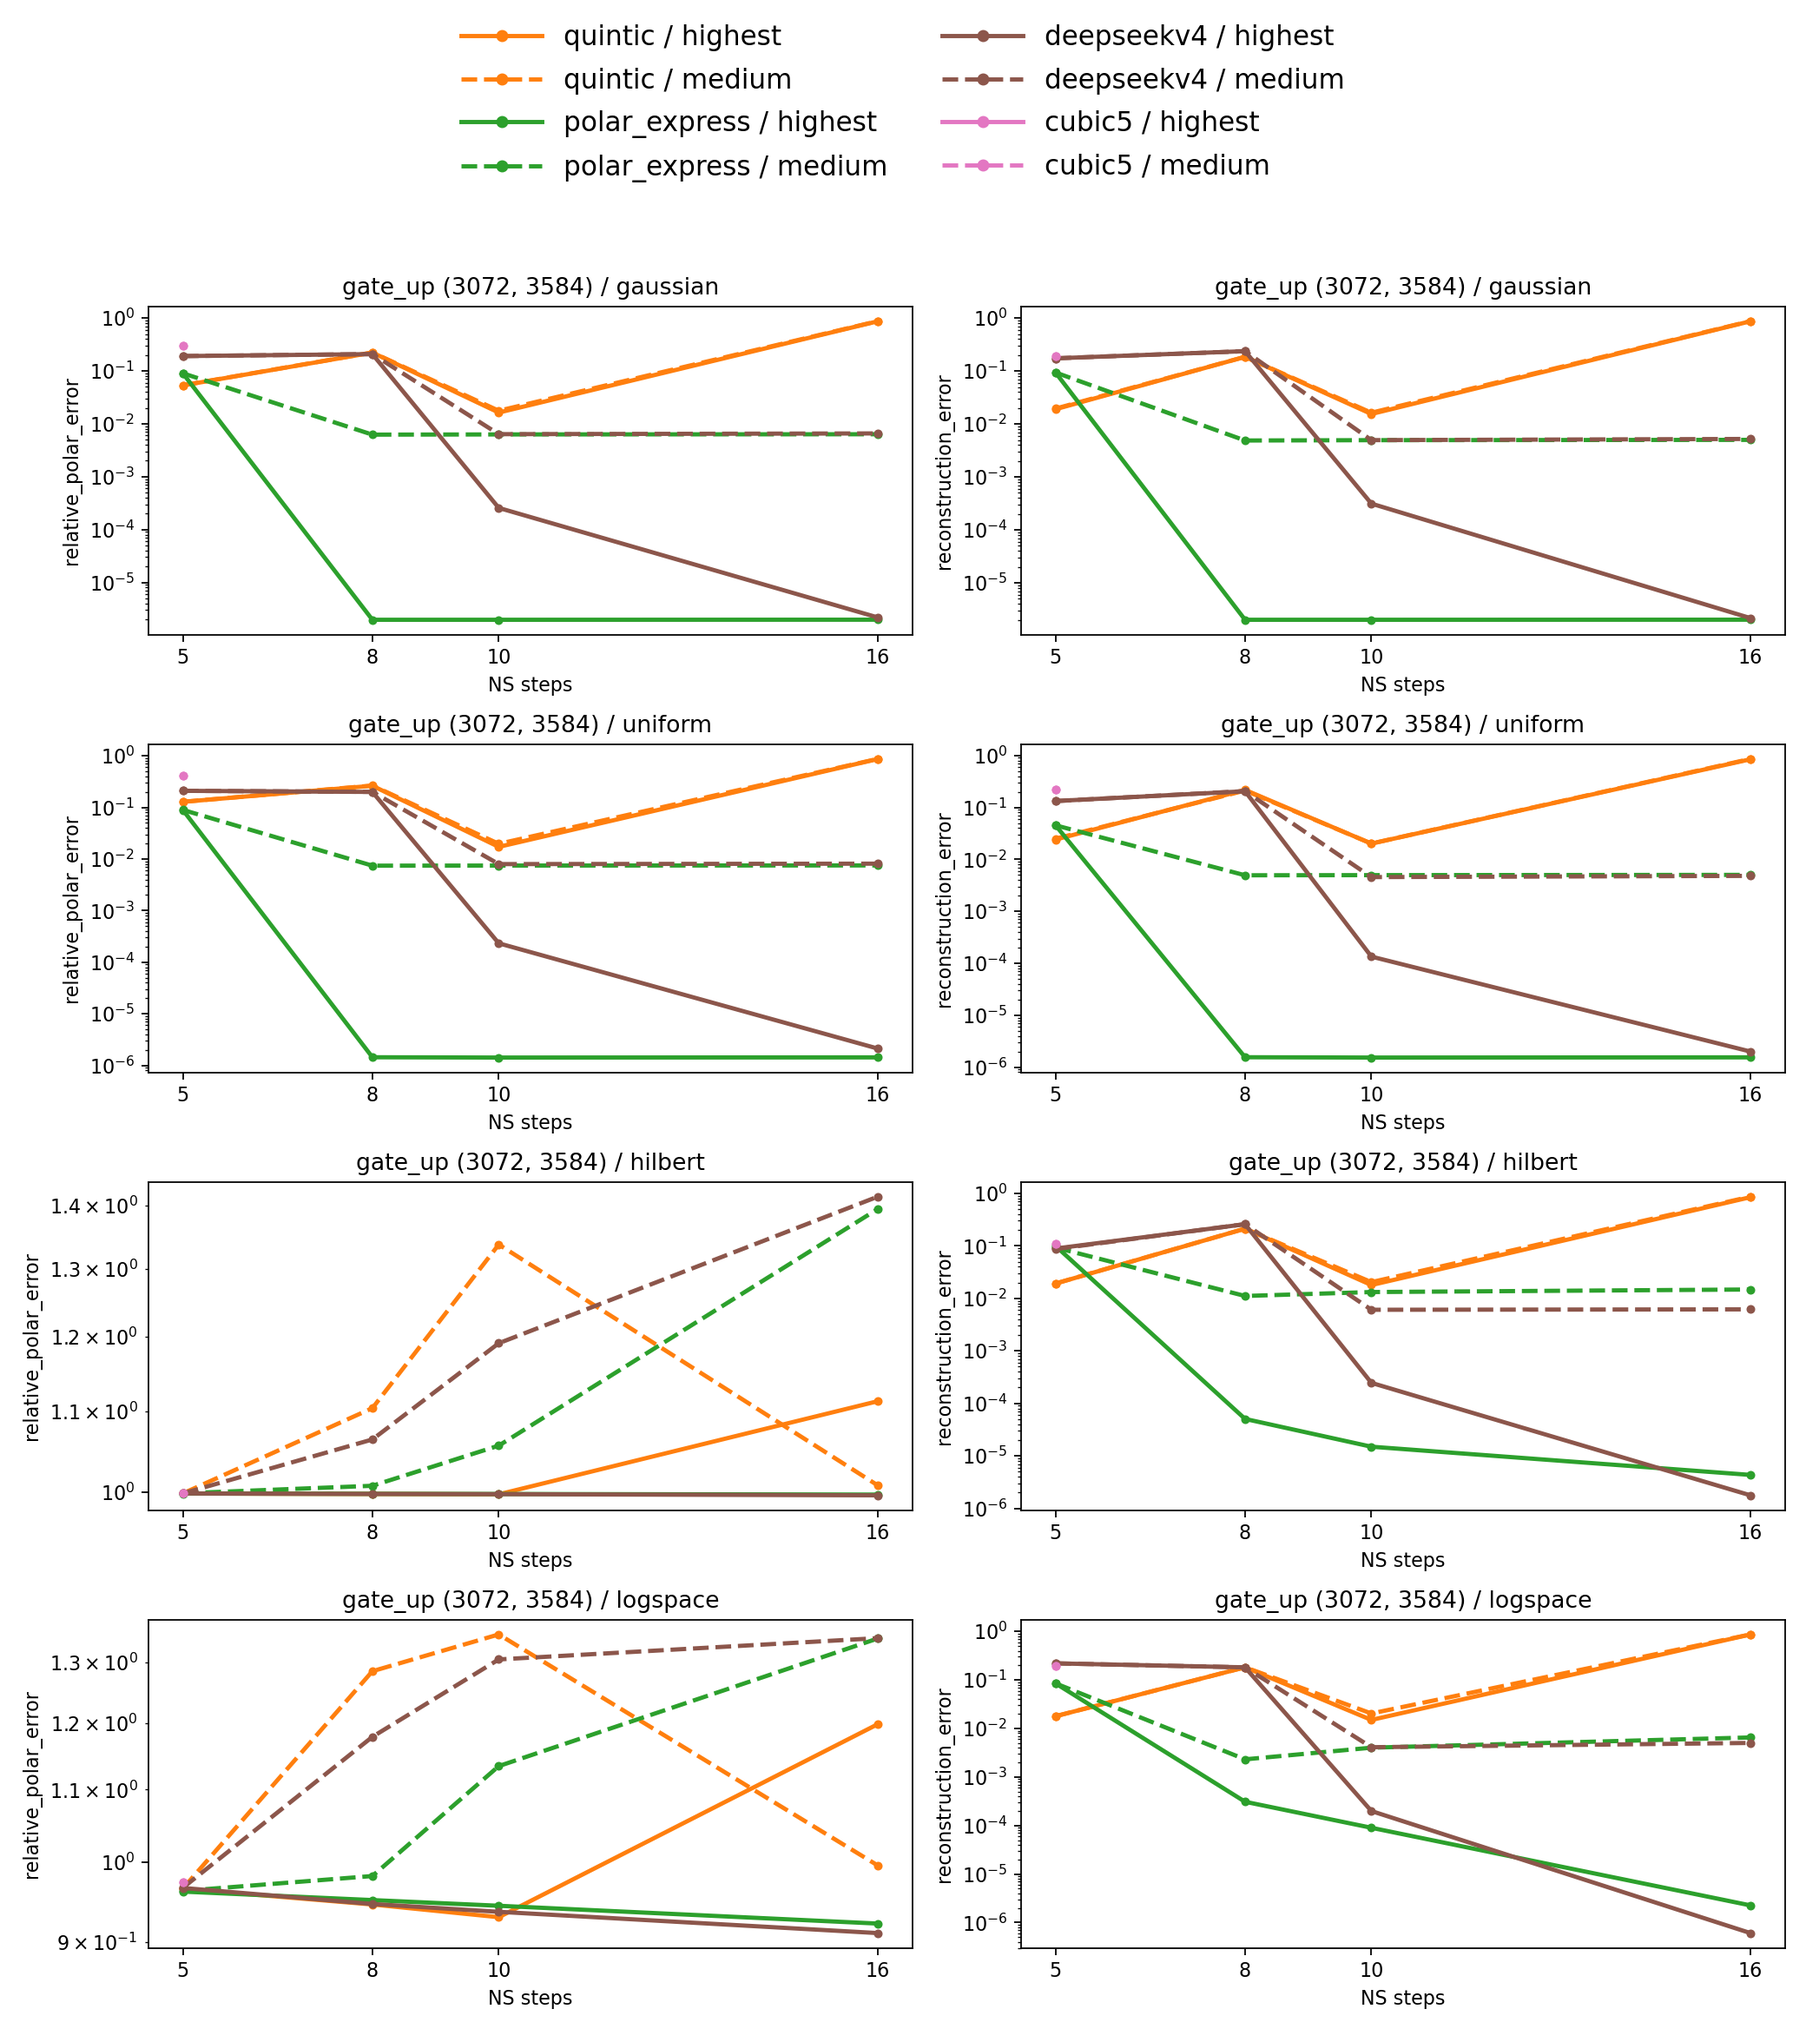
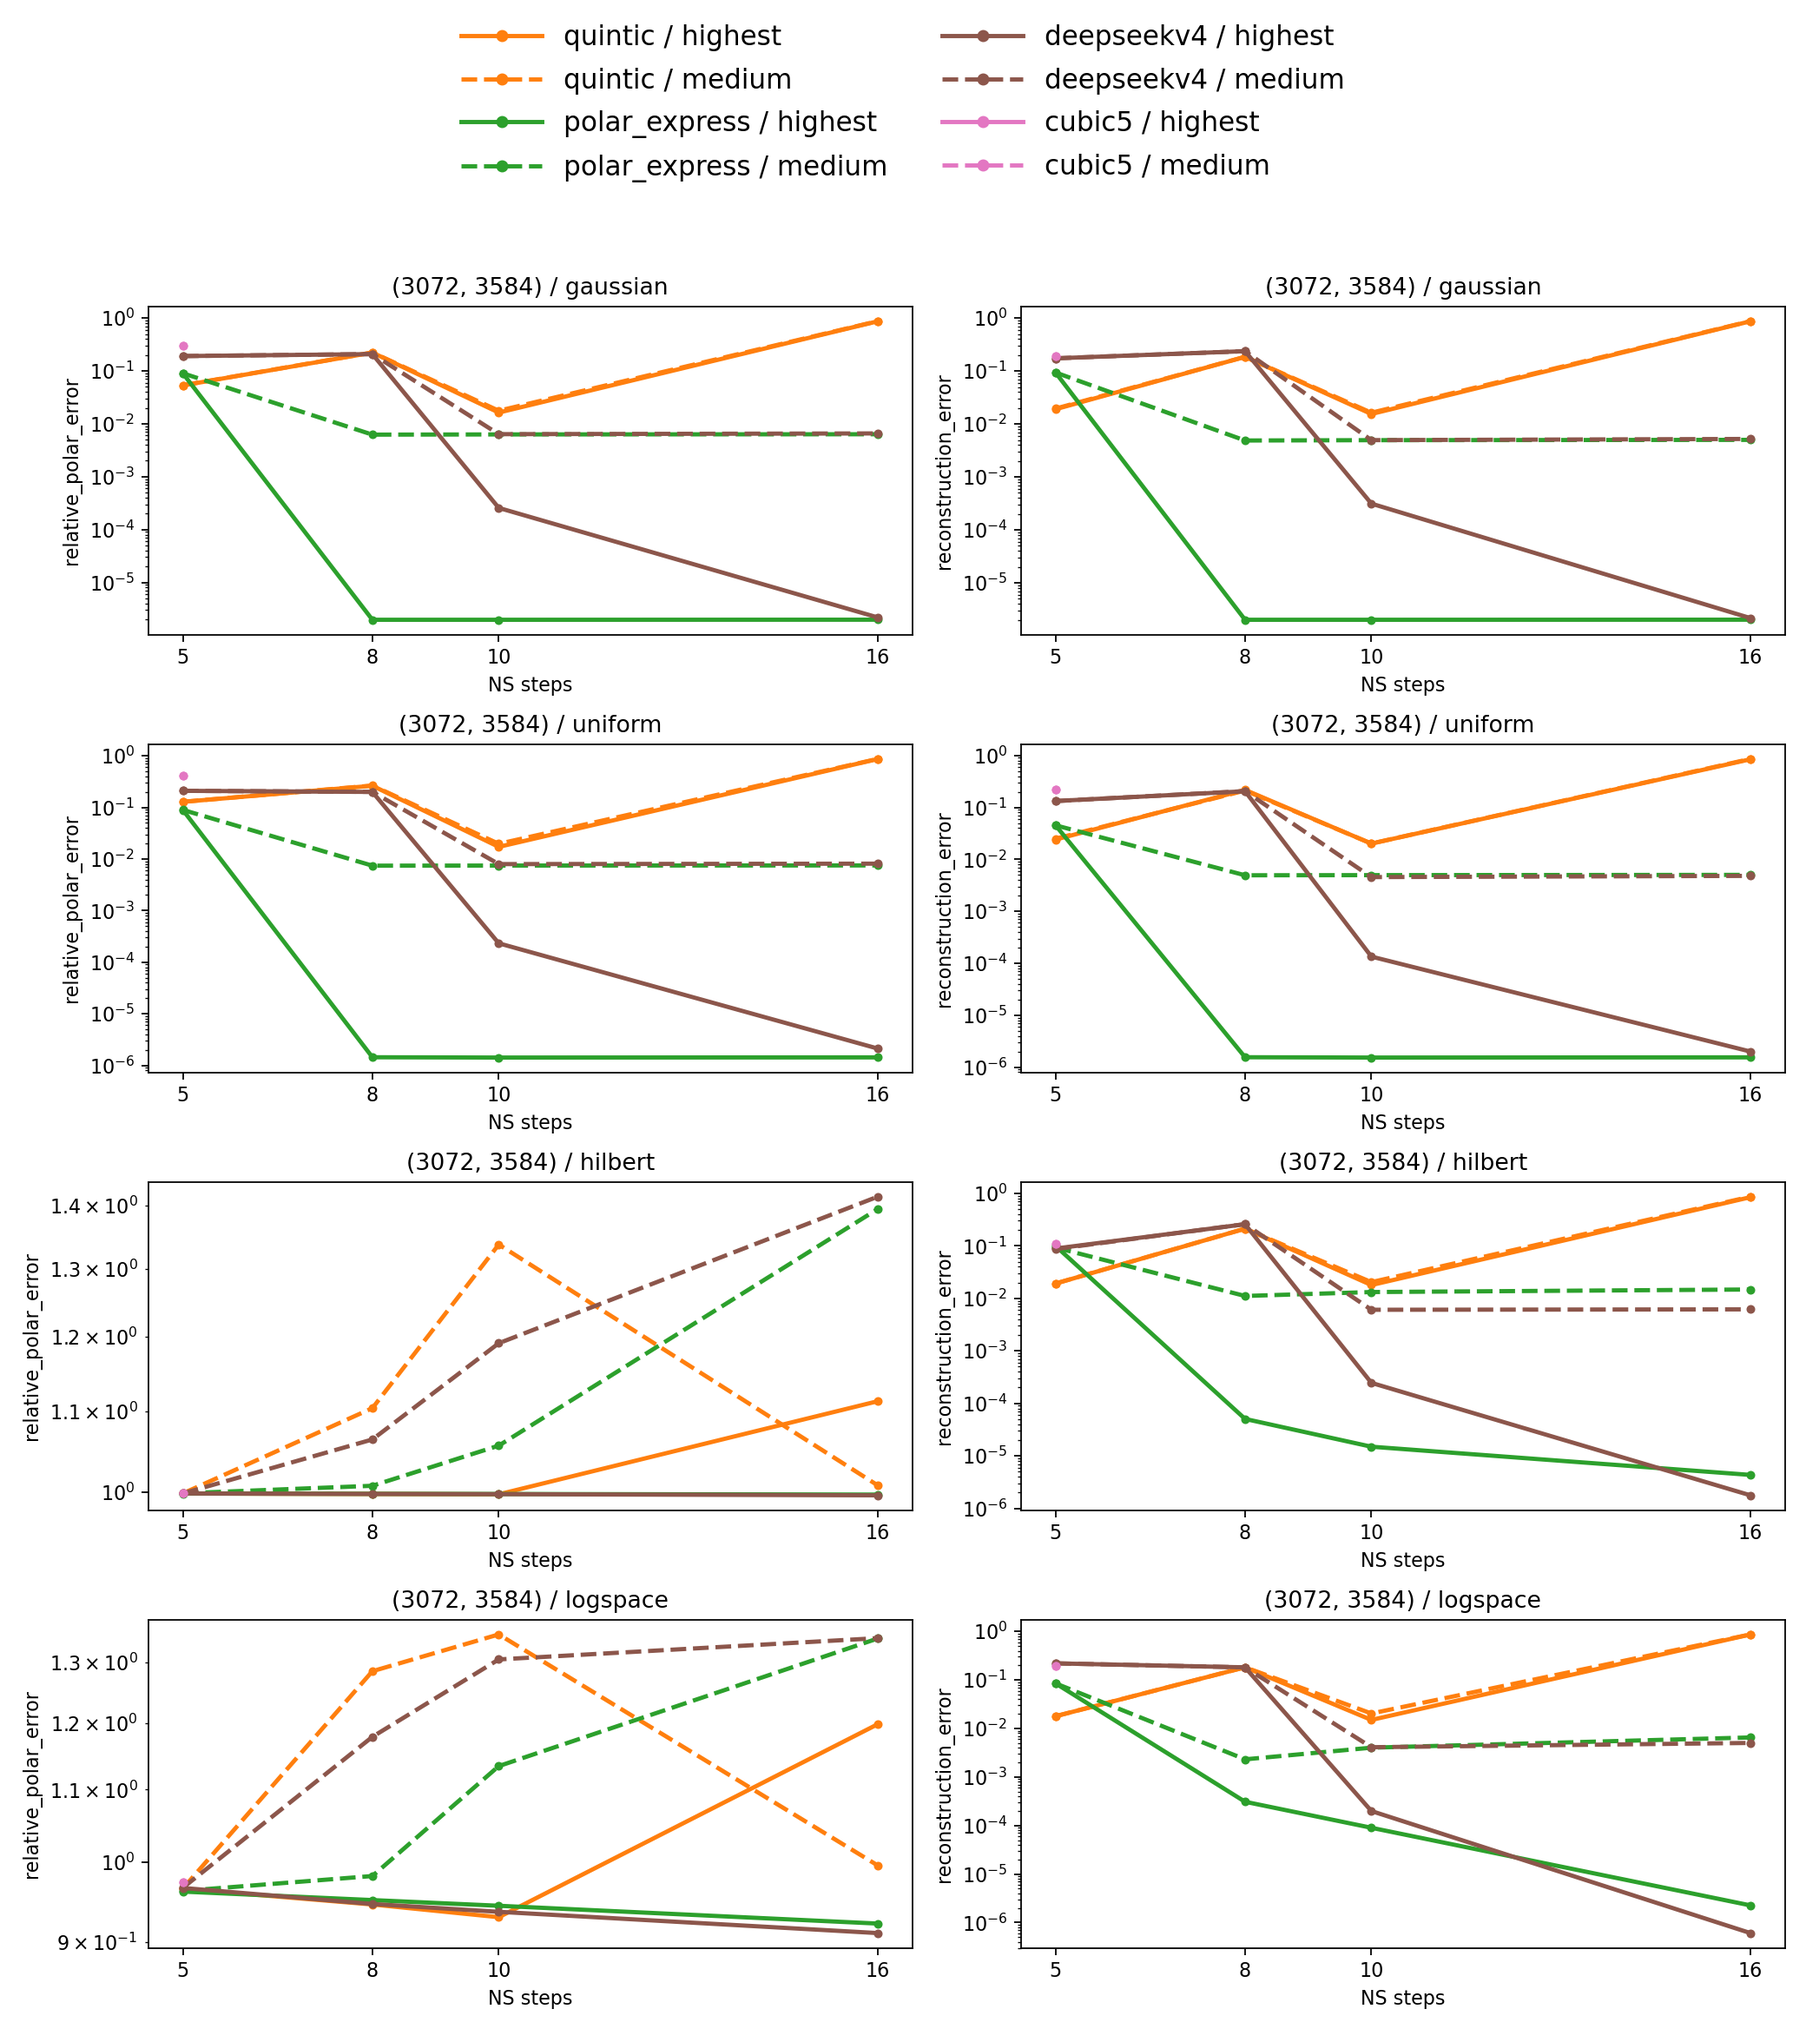
minor editing

diff --git a/benchmarks/newton_schulz_quality.py b/benchmarks/newton_schulz_quality.py
@@ -127,7 +127,7 @@ def plot_results(rows: list[dict[str, Any]], path: Path) -> None:
                         markersize=7,
                         label=f"{coefficient} / {precision}",
                     )
-            ax.set(title=f"{weight} {selected[0]['shape']} / {spectrum}", xlabel="NS steps", ylabel=metric)
+            ax.set(title=f"{tuple(selected[0]['shape'])} / {spectrum}", xlabel="NS steps", ylabel=metric)
             ax.set_xticks(sorted({row["steps"] for row in selected}))
             ax.grid(False, which="both")
             ax.set_facecolor("white")

diff --git a/docs/primer/newton-schulz-quality.md b/docs/primer/newton-schulz-quality.md
@@ -1,4 +1,6 @@
-# Newton–Schulz quality
+# Newton–Schulz orthogonalization quality
+
+This doc summarizes quality of orthogonalization by Newton-Schulz compared polar decomposition (QDWH).
 
 ## Run settings
 
